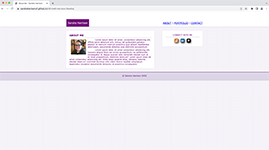
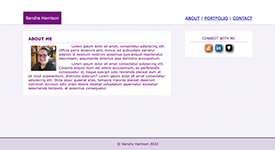
Update README.md

diff --git a/style.css b/style.css
@@ -93,6 +93,10 @@ footer {
     border-top: 2px solid purple;
     clear: both;
     padding: 25px 0;
+    margin-top: 2%;
+    width: 100%;
+    position: absolute;
+    bottom: 0;
 }
 .copy {
     padding-top: 15px;

diff --git a/README.md b/README.md
@@ -1,3 +1,3 @@
 # m6-hw6-Harrison-Sandra
 <img src="Images/lighthouse-report.png" alt="Screenshot of Lighthouse Report" width= "286" height="150">
-<img src="Images/screenshot.png" alt="Screenshot of Webpage" width= "269" height="150">
+<img src="Images/screenshot.png" alt="Screenshot of Webpage" width= "275" height="150">
